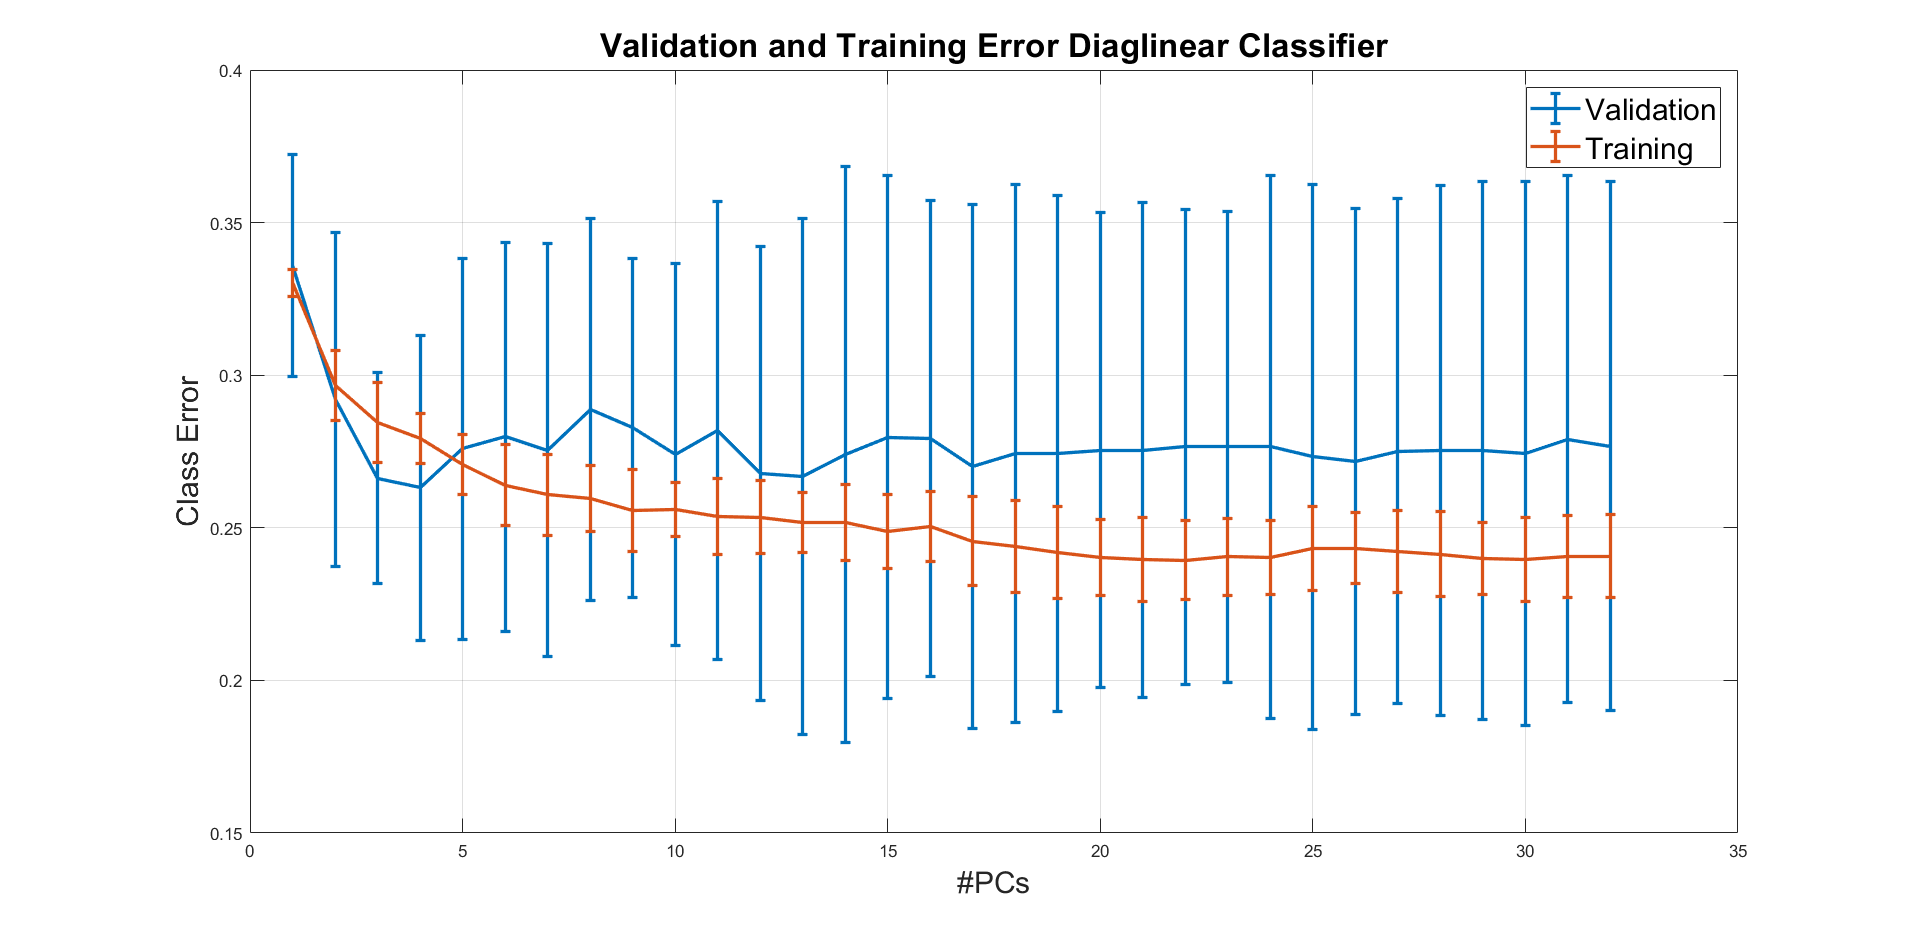
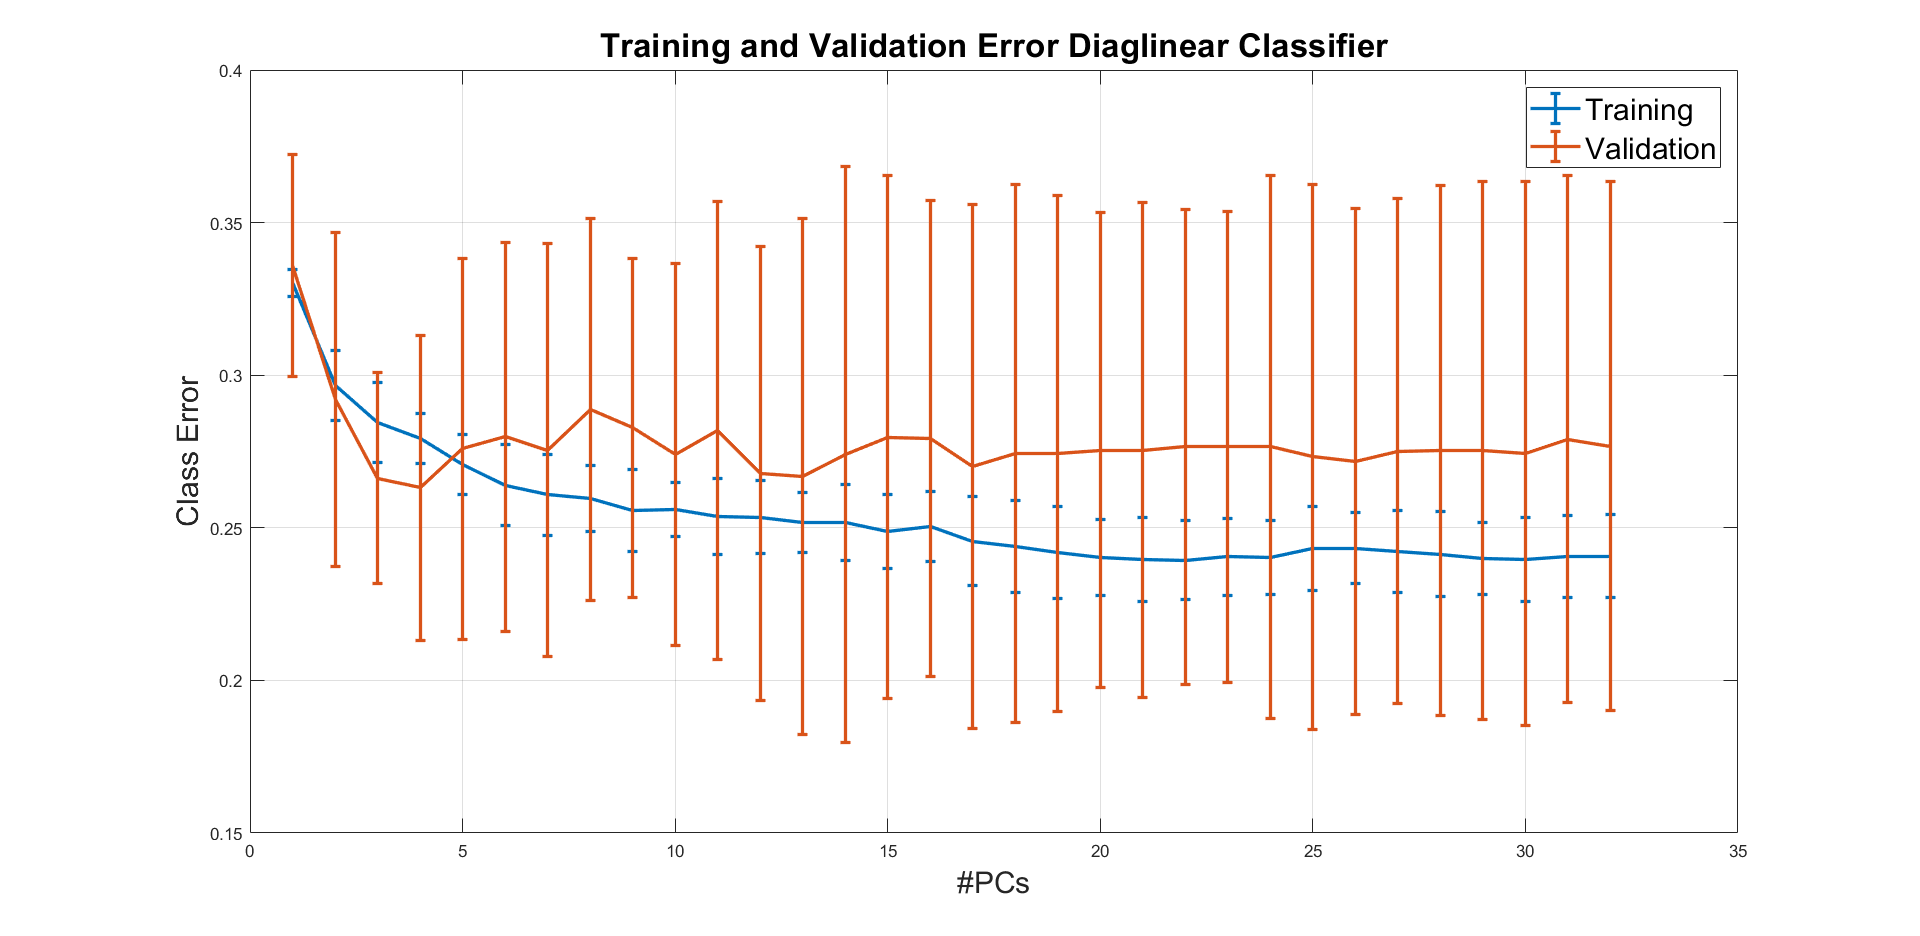
figures changed

diff --git a/Mini-Project 1/Final.m b/Mini-Project 1/Final.m
@@ -112,10 +112,9 @@ figure('name','boxplot of error across outer folds')
 boxplot(Results.NCV.class_error_outer_test)
 title('Class Error across Outer Folds')
 ax=gca;
-ax.TitleFontSizeMultiplier=2;
-ylabel('Class error','fontsize',18)
-xlabel('All Outer Folds','fontsize',18)
-
+ax.FontSize = 18
+ylabel('Class error','fontsize',24)
+xlabel('All Outer Folds','fontsize',24)
 
 
 %% Statistical significance
@@ -228,52 +227,52 @@ ylabel('Cumulated Explained Variance (%)','fontsize',18)
 
 % Validation and Training Error
 figure('name','Validation error and Training error Diaglinear')
-errorbar(mean_Validation_error_Diaglin,std_Validation_error_Diaglin, 'linewidth',2)
-hold on 
 errorbar(mean_train_error_Diaglin,std_train_error_Diaglin, 'linewidth',2)
+hold on
+errorbar(mean_Validation_error_Diaglin,std_Validation_error_Diaglin, 'linewidth',2)
 grid on
-al=legend('Validation','Training')
+al=legend('Training','Validation')
 al.FontSize=18;
-title('Validation and Training Error Diaglinear Classifier')
+title('Training and Validation Error Diaglinear Classifier')
 ax=gca;
 ax.TitleFontSizeMultiplier=2;
 xlabel('#PCs','fontsize',18)
 ylabel('Class Error','fontsize',18)
 
-figure('name','Validation error and Training error LDA')
-errorbar(mean_Validation_error_LDA,std_Validation_error_LDA, 'linewidth',2)
-hold on 
+figure('name','Training and Validation Error error LDA')
 errorbar(mean_train_error_LDA,std_train_error_LDA, 'linewidth',2)
+hold on
+errorbar(mean_Validation_error_LDA,std_Validation_error_LDA, 'linewidth',2)
 grid on
-al=legend('Validation','Training')
+al=legend('Training','Validation')
 al.FontSize=18;
-title('Validation and Training Error LDA Classifier')
+title('Training and Validation Error LDA Classifier')
 ax=gca;
 ax.TitleFontSizeMultiplier=2;
 xlabel('#PCs','fontsize',18)
 ylabel('Class Error','fontsize',18)
 
-figure('name','Validation error and Training error Diagquadratic')
-errorbar(mean_Validation_error_Diagquad,std_Validation_error_Diagquad, 'linewidth',2)
-hold on 
+figure('name','Training and Validation Error Diagquadratic')
 errorbar(mean_train_error_Diagquad,std_train_error_Diagquad, 'linewidth',2)
+hold on
+errorbar(mean_Validation_error_Diagquad,std_Validation_error_Diagquad, 'linewidth',2)
 grid on
-al=legend('Validation','Training')
+al=legend('Training','Validation')
 al.FontSize=18;
-title('Validation and Training Error Diagquad Classifier')
+title('Training and Validation Error Diagquad Classifier')
 ax=gca;
 ax.TitleFontSizeMultiplier=2;
 xlabel('#PCs','fontsize',18)
 ylabel('Class Error','fontsize',18)
 
-figure('name','Validation error and Training error QDA')
-errorbar(mean_Validation_error_QDA,std_Validation_error_QDA, 'linewidth',2)
-hold on 
+figure('name','Training and Validation Error QDA')
 errorbar(mean_train_error_QDA,std_train_error_QDA, 'linewidth',2)
+hold on
+errorbar(mean_Validation_error_QDA,std_Validation_error_QDA, 'linewidth',2)
 grid on
-al=legend('Validation','Training')
+al=legend('Training','Validation')
 al.FontSize=18;
-title('Validation and Training Error QDA Classifier')
+title('Training and Validation Error QDA Classifier')
 ax=gca;
 ax.TitleFontSizeMultiplier=2;
 xlabel('#PCs','fontsize',18)
